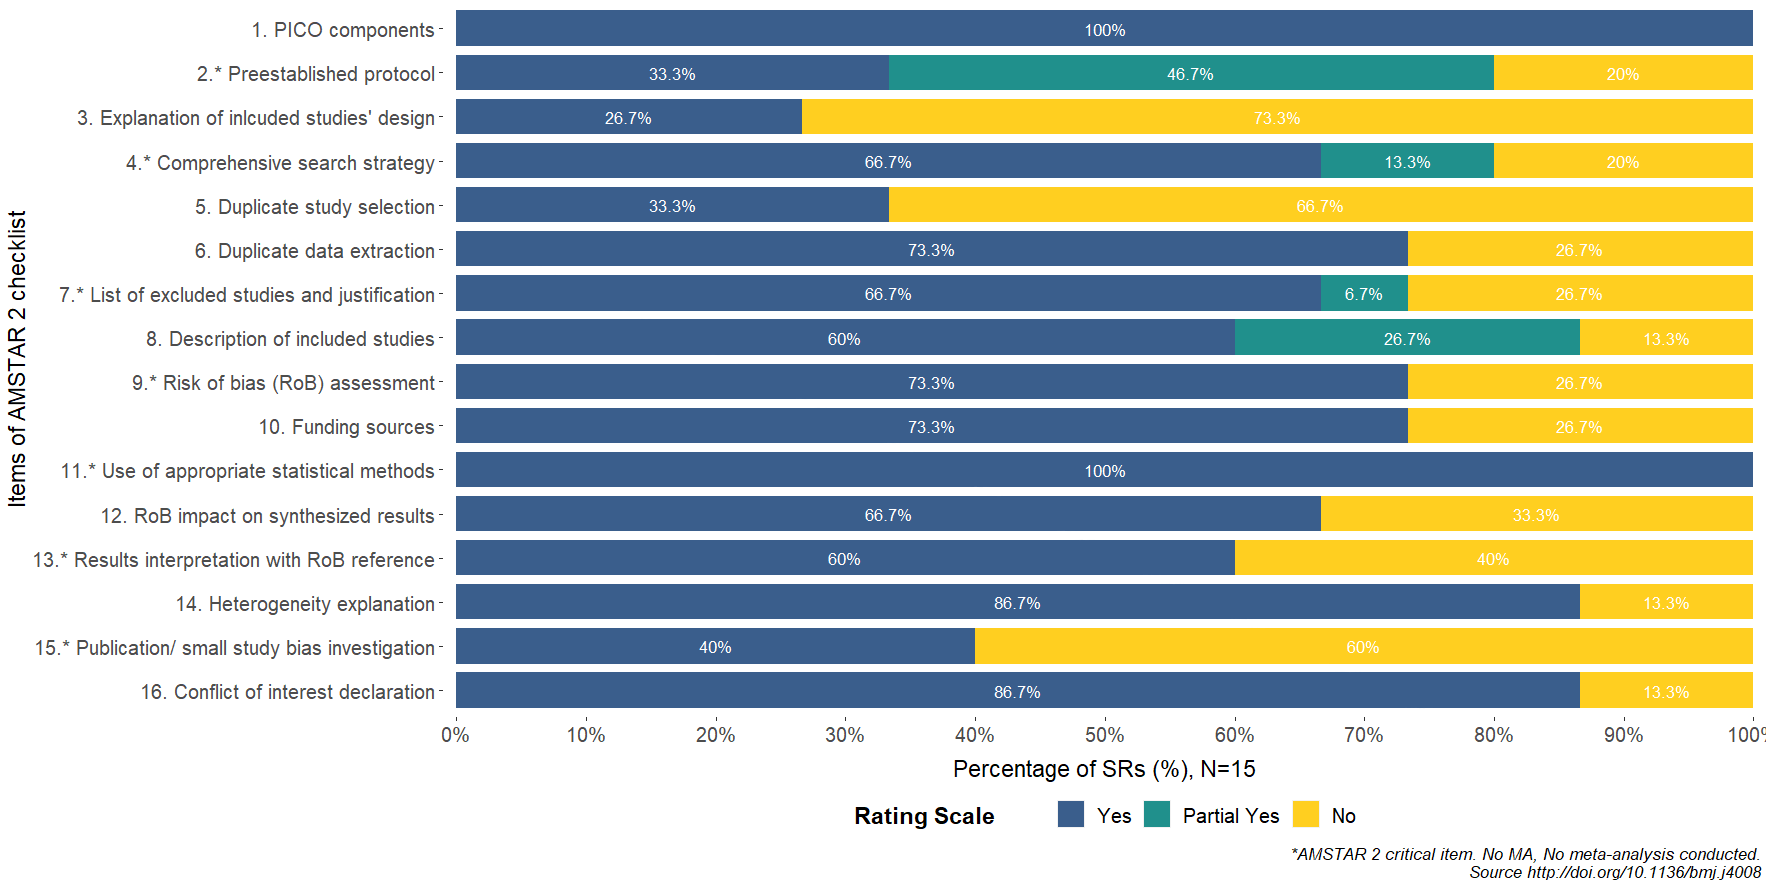
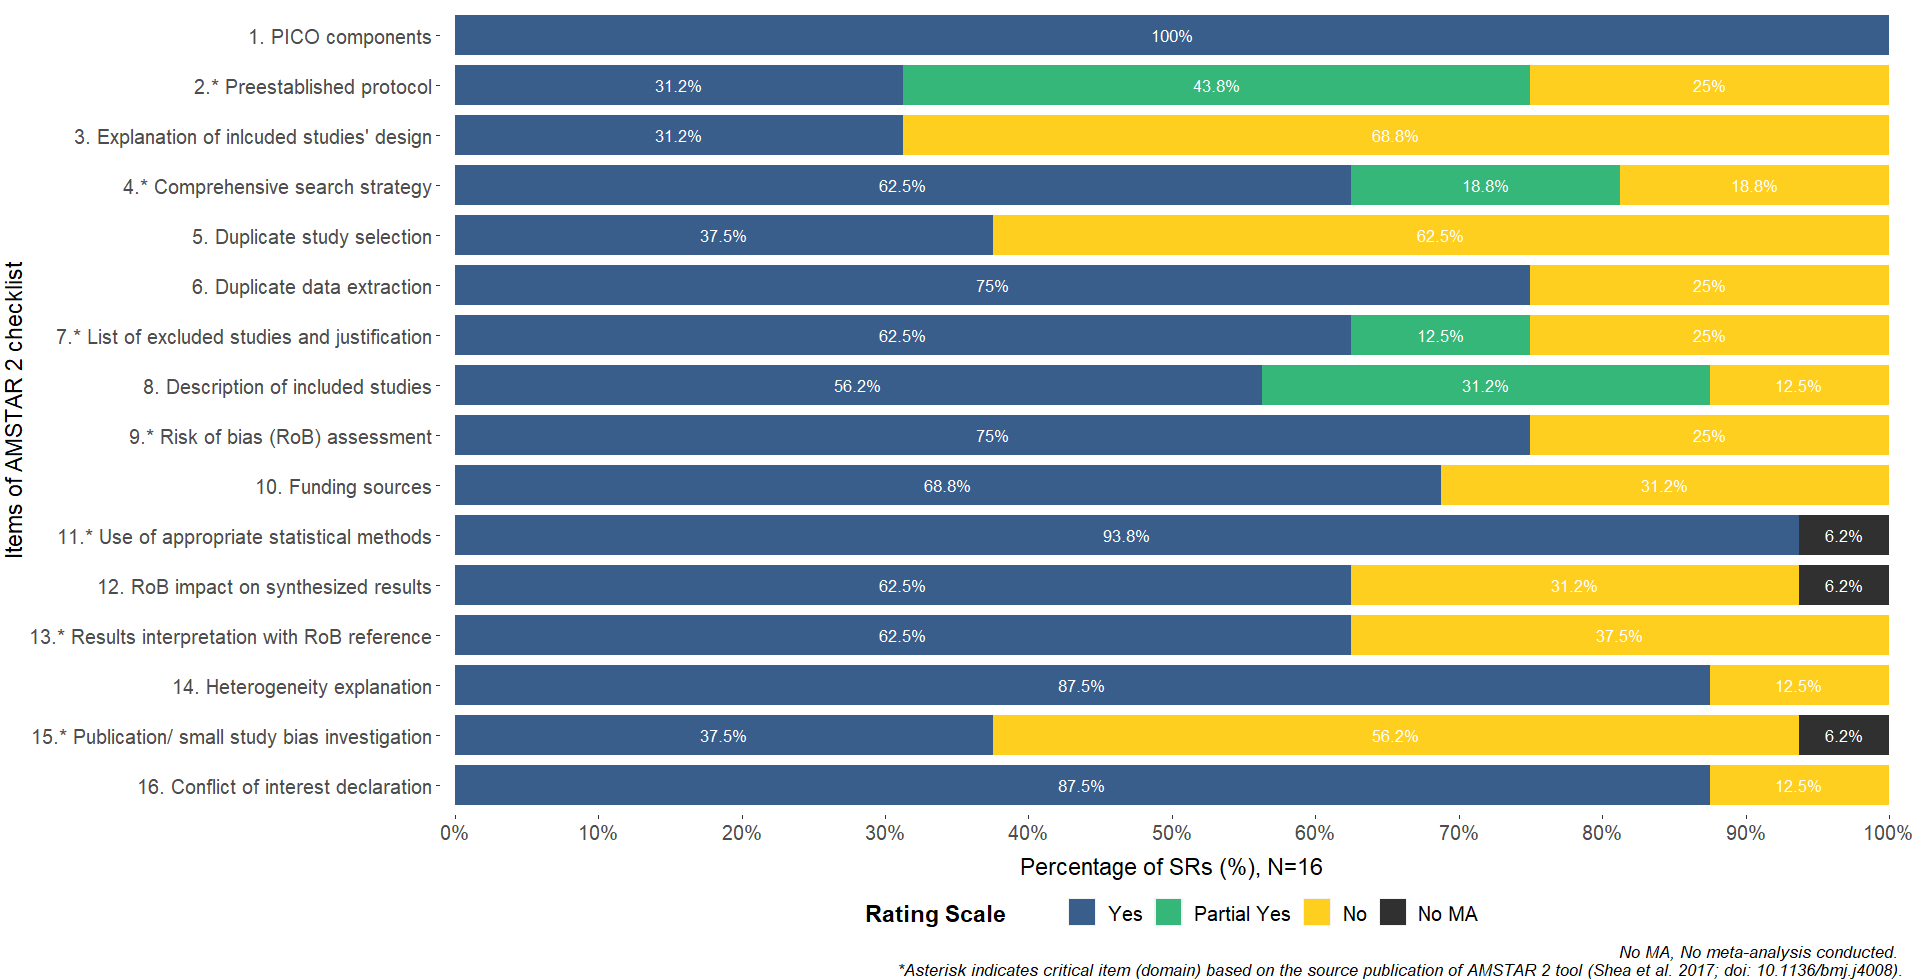
1.47

diff --git a/README.md b/README.md
@@ -15,18 +15,39 @@ devtools::install_github('bougioukas/amstar2')
 ```
 
 
+## Load the example data
 
-## AMSTAR 2 Table
+``` r
+DATASET <- readxl::read_excel(system.file("extdata", "sample_dat.xlsx", package = "amstar2"))
+
+```
+
+## AMSTAR 2 "gt" Table
+
+``` r
+amstar2_gtable(DATASET)
+```
+
 <img src="man/figures/amstar_table.png" align="center" width="620" />
 
 
 ## AMSTAR 2 Barplot
+
+``` r
+amstar2_barplot(DATASET)
+```
+
 <img src="man/figures/amstar_barplot.png" align="center" width="620" />
 
-## AMSTAR 2 Halfdonut
-<img src="man/figures/amstar_halfdonut.png" align="center" width="620" />
 
 
+## AMSTAR 2 Overall
+
+``` r
+amstar2_overall(DATASET)
+```
+
+<img src="man/figures/amstar_overall.png" align="center" width="620" />
 
 
 
